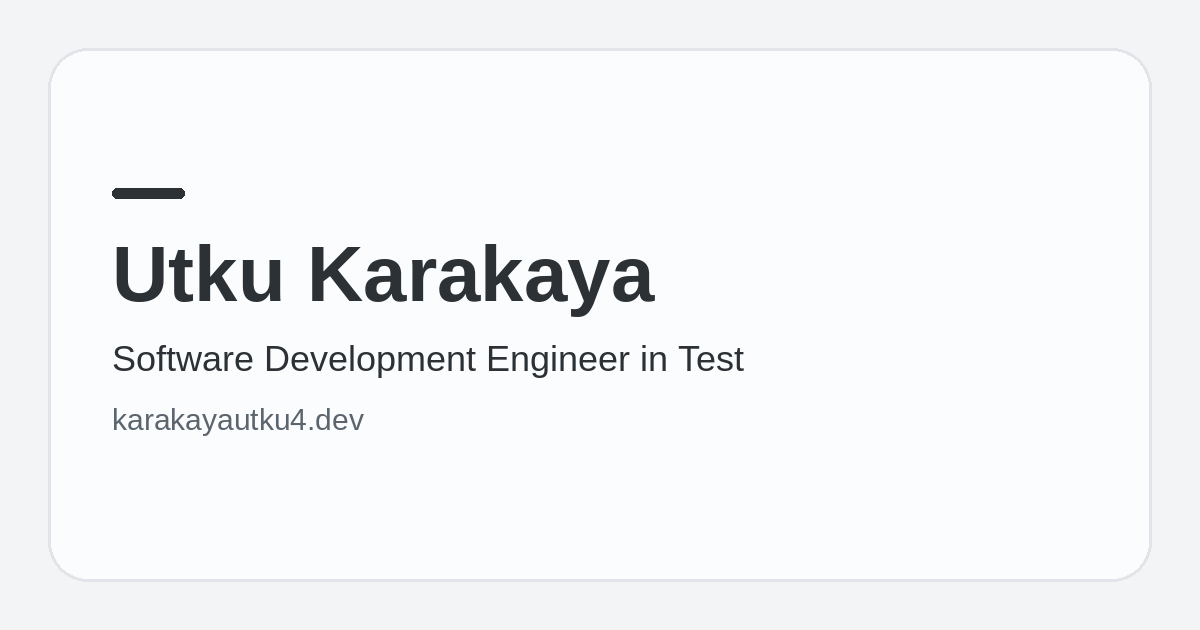
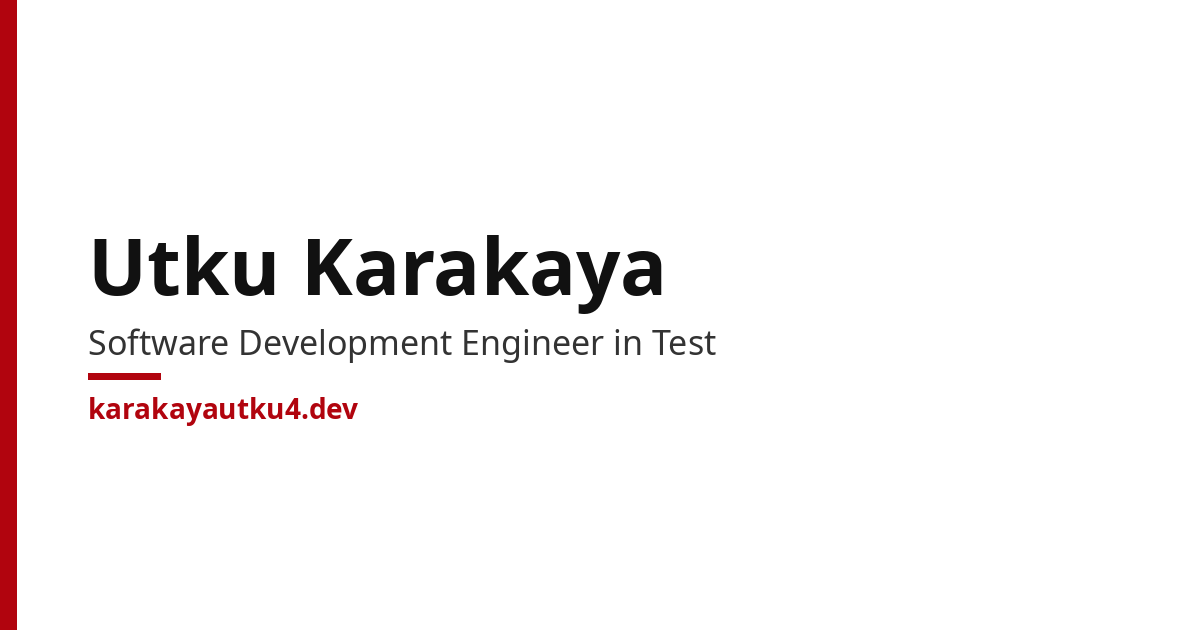
Shift colors to a white and cardinal palette with a dark scheme. (#7)

diff --git a/src/styles/global.css b/src/styles/global.css
@@ -1,18 +1,51 @@
 :root {
-  --paper: #f2f4f6;
-  --paper-deep: #e7ebef;
-  --card: #fbfcfd;
-  --ink: #2c3136;
-  --muted: #5c656d;
-  --line: #e1e5ea;
-  --shadow: 0 14px 36px rgba(32, 36, 40, 0.07);
-  --shadow-hover: 0 16px 34px rgba(32, 36, 40, 0.12);
-  --press: #d8dee4;
+  --paper: #fff;
+  --paper-deep: #f3f3f3;
+  --card: #fff;
+  --ink: #111;
+  --muted: #4d4d4d;
+  --line: #e4e4e4;
+  --line-strong: #c8c8c8;
+  --line-press: #b0b0b0;
+  --accent: #b1040e;
+  --accent-press: #8c030b;
+  --accent-active: #6d0208;
+  --on-accent: #fff;
+  --glow: #fff6f6;
+  --shadow: 0 14px 36px rgba(17, 17, 17, 0.07);
+  --shadow-hover: 0 16px 34px rgba(17, 17, 17, 0.12);
+  --shadow-press: 0 8px 18px rgba(17, 17, 17, 0.14);
+  --press: #e6e6e6;
+  --header-bg: rgba(255, 255, 255, 0.92);
   --radius: 1.25rem;
   --header: 4.5rem;
   --content: 68rem;
   --font: "Avenir Next", "Segoe UI", "Helvetica Neue", sans-serif;
-  color-scheme: light;
+  color-scheme: light dark;
+}
+
+@media (prefers-color-scheme: dark) {
+  :root {
+    --paper: #222;
+    --paper-deep: #2c2c2c;
+    --card: #2a2a2a;
+    --ink: #eee;
+    --muted: #c2c2c2;
+    --line: #3a3a3a;
+    --line-strong: #555;
+    --line-press: #6a6a6a;
+    --accent: #ff424d;
+    --accent-press: #ff6a72;
+    --accent-active: #ff8d93;
+    --on-accent: #1a1a1a;
+    --glow: #2a2222;
+    --shadow: 0 14px 36px rgba(0, 0, 0, 0.35);
+    --shadow-hover: 0 16px 34px rgba(0, 0, 0, 0.48);
+    --shadow-press: 0 8px 18px rgba(0, 0, 0, 0.42);
+    --press: #383838;
+    --header-bg: rgba(34, 34, 34, 0.92);
+    color-scheme: dark;
+  }
 }
 
 *,
@@ -33,7 +66,7 @@ body {
   line-height: 1.6;
   color: var(--ink);
   background:
-    radial-gradient(900px 420px at 0% -10%, #f7f9fb 0%, transparent 60%),
+    radial-gradient(900px 420px at 0% -10%, var(--glow) 0%, transparent 60%),
     var(--paper);
 }
 
@@ -43,7 +76,7 @@ img {
 }
 
 a {
-  color: var(--ink);
+  color: var(--accent);
   text-underline-offset: 0.18em;
 }
 
@@ -52,7 +85,7 @@ a:hover {
 }
 
 :focus-visible {
-  outline: 2px solid var(--ink);
+  outline: 2px solid var(--accent);
   outline-offset: 3px;
 }
 
@@ -89,7 +122,7 @@ a:hover {
   position: sticky;
   top: 0;
   z-index: 5;
-  background: rgba(242, 244, 246, 0.92);
+  background: var(--header-bg);
   border-bottom: 1px solid var(--line);
   backdrop-filter: blur(10px);
 }
@@ -111,6 +144,7 @@ a:hover {
 
 .brand {
   margin-right: auto;
+  color: var(--ink);
   font-weight: 700;
   letter-spacing: -0.02em;
   text-decoration: none;
@@ -151,6 +185,7 @@ a:hover {
   min-height: 2.75rem;
   padding: 0.35rem 0.8rem;
   border-radius: 999px;
+  color: var(--ink);
   text-decoration: none;
   font-weight: 600;
 }
@@ -296,27 +331,31 @@ h1 {
   padding: 0.55rem 1rem;
   border-radius: 999px;
   border: 1px solid var(--ink);
+  color: var(--ink);
   text-decoration: none;
   font-weight: 600;
   background: transparent;
 }
 
 .button-solid {
-  background: var(--ink);
-  color: #f4f6f8;
+  background: var(--accent);
+  border-color: var(--accent);
+  color: var(--on-accent);
 }
 
 .button-solid:hover,
 .button-solid:active {
-  color: #f4f6f8;
+  color: var(--on-accent);
 }
 
 .button-solid:hover {
-  background: #1e2328;
+  background: var(--accent-press);
+  border-color: var(--accent-press);
 }
 
 .button-solid:active {
-  background: #121518;
+  background: var(--accent-active);
+  border-color: var(--accent-active);
 }
 
 .intro {
@@ -350,15 +389,15 @@ h1 {
 .role:hover,
 .skill-card:hover,
 .repo-card:hover {
-  border-color: #c5ccd3;
+  border-color: var(--line-strong);
   box-shadow: var(--shadow-hover);
 }
 
 .role:active,
 .skill-card:active,
 .repo-card:active {
-  border-color: #b7c0c8;
-  box-shadow: 0 8px 18px rgba(32, 36, 40, 0.14);
+  border-color: var(--line-press);
+  box-shadow: var(--shadow-press);
 }
 
 .role-top,
@@ -422,6 +461,7 @@ h1 {
   border: 1px solid var(--line);
   border-radius: 999px;
   background: var(--card);
+  color: var(--ink);
   text-decoration: none;
   font-weight: 600;
   font-size: 0.95rem;
